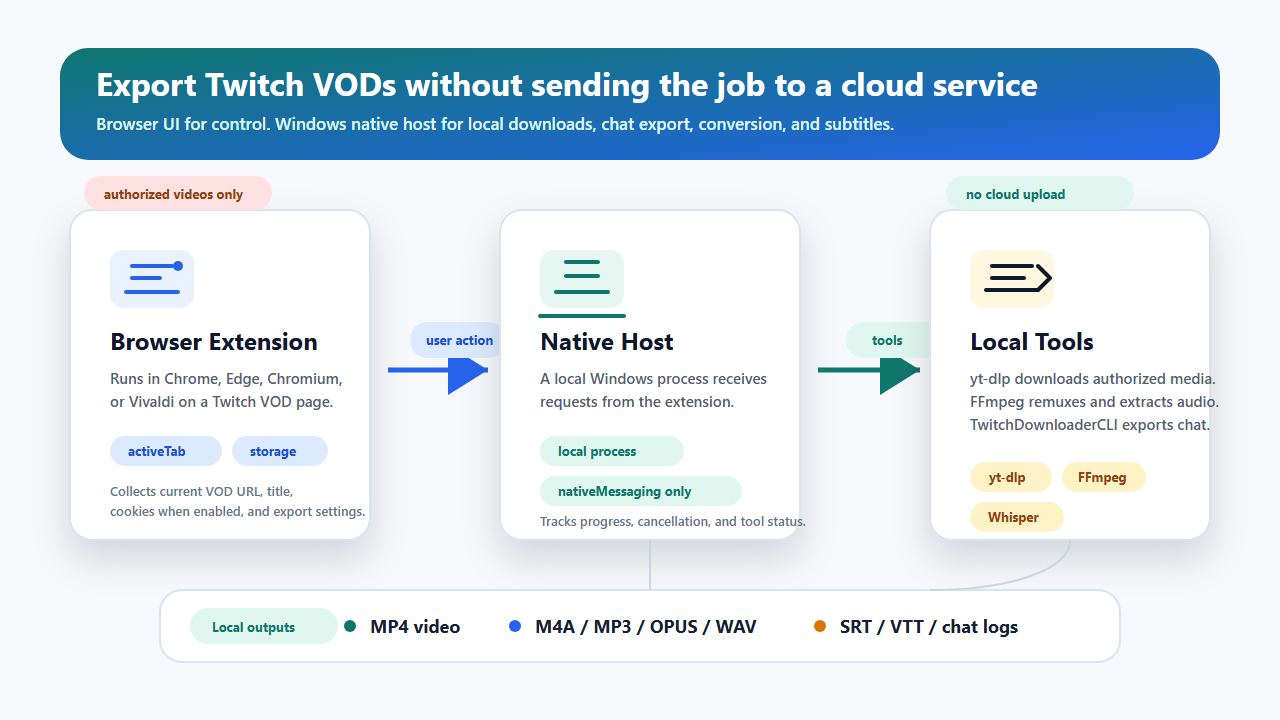
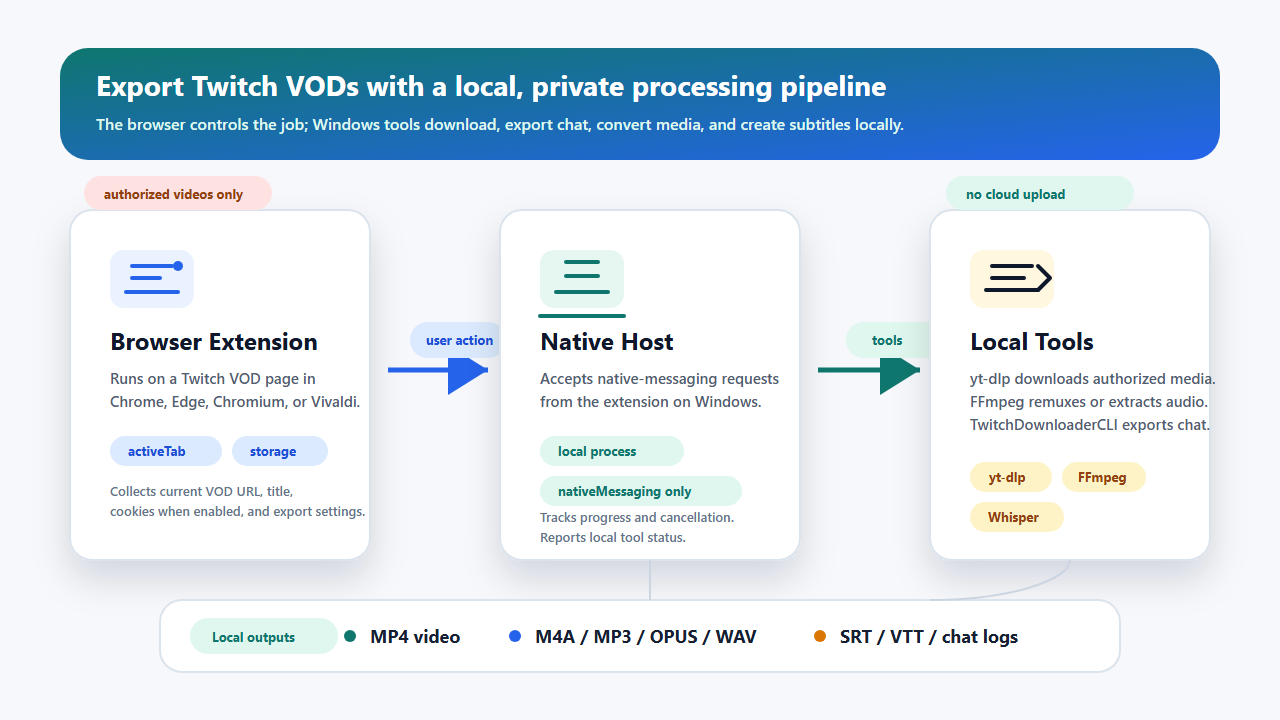
Improve README demo and architecture diagram

diff --git a/README.md b/README.md
@@ -56,11 +56,11 @@ Open a Twitch VOD page like `https://www.twitch.tv/videos/<vod-id>`, click the e
 
 ![Options page showing Twitch export, subtitle, chat, and native host settings](docs/assets/options.png)
 
-## How It Works
+## Technical Architecture
 
 ![Architecture diagram showing the browser extension handing a Twitch VOD export request to a local Windows native host, which runs yt-dlp, TwitchDownloaderCLI, FFmpeg, and Whisper locally before writing media, subtitles, and chat logs to disk](docs/assets/how-it-works.png)
 
-The Manifest V3 extension reads the active Twitch tab only when you open the popup. It sends the export request to a Windows native messaging host, which runs the local toolchain and writes generated files to your selected output folder.
+The flow is: **Twitch VOD tab → extension popup → Windows native host → local tools → selected output folder**. The Manifest V3 extension reads the active Twitch tab only when you open the popup; it sends the export request to a Windows native messaging host, which runs the local toolchain and writes generated files to your selected output folder.
 
 `TwitchDownloaderCLI` is used for chat export because its `chatdownload` mode supports VOD chat output as JSON, HTML, or text. Media and Whisper subtitle fallback use `yt-dlp`, FFmpeg, and whisper.cpp. Chinese subtitle conversion uses OpenCC `s2twp` after the subtitle file is produced, leaving VOD chat text unchanged.
 